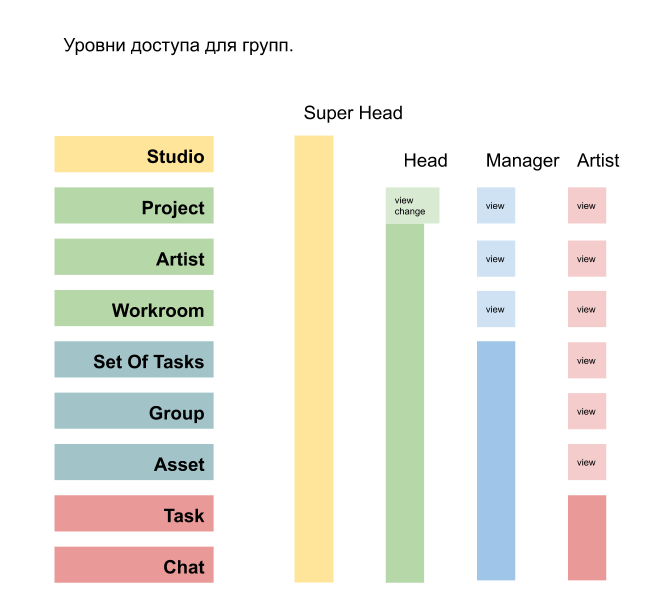
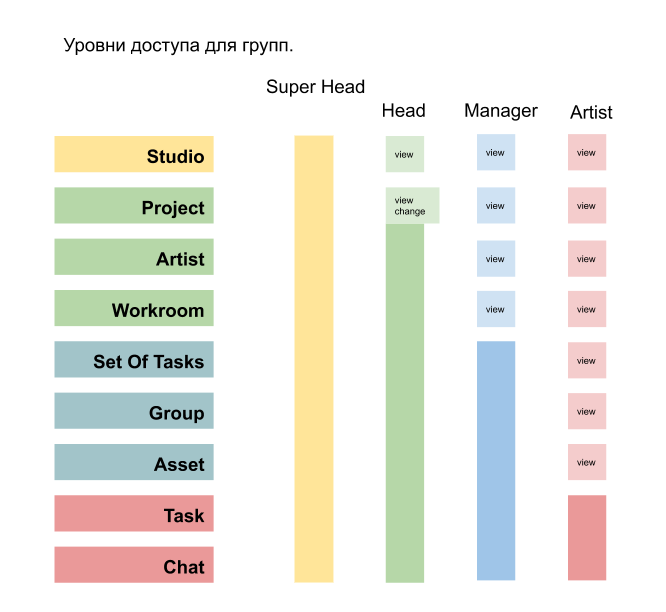
docs - levels

Changed region(s): [[0.3904, 0.1242, 0.9309, 0.2794]]

diff --git a/docs/source/specifications/django/levels.rst b/docs/source/specifications/django/levels.rst
@@ -33,7 +33,9 @@ Head
 Доступы
 ~~~~~~~
 
-* **workroom** : ``add``, ``change``, ``delete``, ``view``.
+* **Studio** : ``view``.
+
+* **Project** : ``change``, ``view``.
 
 * **Artist** : ``add``, ``change``, ``delete``, ``view`` .
 
@@ -43,7 +45,7 @@ Head
         * Ставить проверку всем приложениям меняющим эти модели: членство в студии, отделе, в группе.
         * Изменение членства в группе `Super Head`_ может только член этой группы. ``????`` Проработать.
 
-* **Project** : ``change``, ``view``.
+* **Workroom** : ``add``, ``change``, ``delete``, ``view``.
 
 * **SetOfTasks** : ``add``, ``change``, ``delete``, ``view``.
 
@@ -68,9 +70,13 @@ Manager
 Доступы
 ~~~~~~~
 
-* **Artist** : ``view`` .
+* **Studio** : ``view``.
 
 * **Project** : ``view``.
+
+* **Artist** : ``view`` .
+
+* **Workroom** : ``view``.
 
 * **SetOfTasks** : ``add``, ``change``, ``delete``, ``view``.
 
@@ -95,9 +101,17 @@ User
 Доступы
 ~~~~~~~
 
-* **Artist** : ``view`` .
+* **Studio** : ``view``.
 
 * **Project** : ``view``.
+
+* **Artist** : ``view`` .
+
+* **Workroom** : ``view``.
+
+* **SetOfTasks** :  ``view``.
+
+* **Group** : ``view``.
 
 * **Asset** : ``view``.
 
